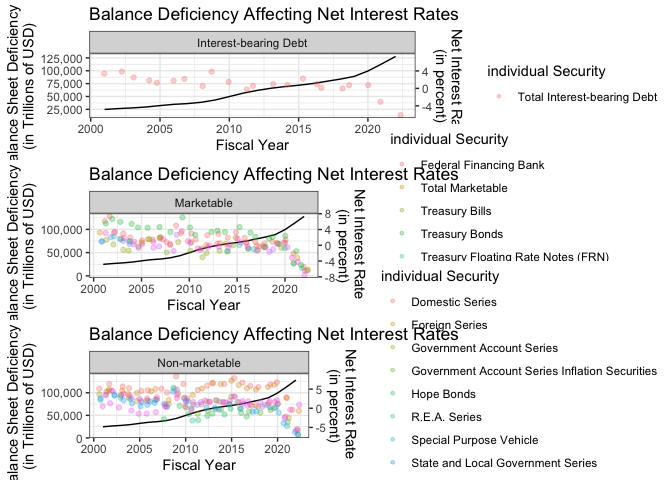
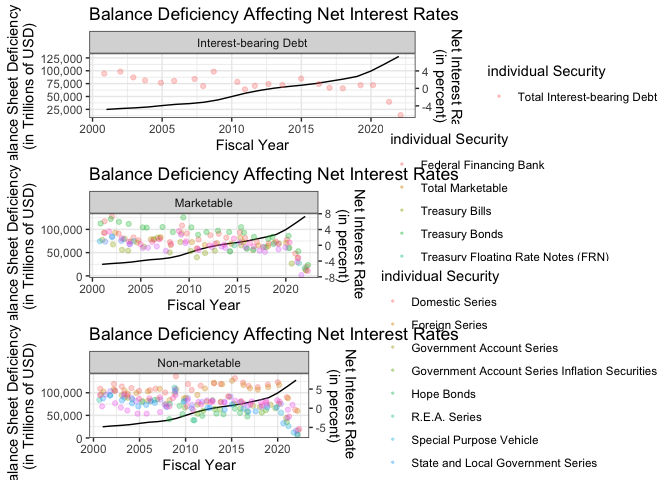
Materials needed for Project 2

diff --git a/README.md b/README.md
@@ -1363,17 +1363,17 @@ deficiencyAndRatesData %>%
     name = "Balance Sheet Deficiency \n(in Trillions of USD)",
     sec.axis = sec_axis(~ (. - a)/b, name="Net Interest Rate (in percent)")
   ) +
-  theme(text = element_text(size = 8),
-        axis.text.x = element_text(size = 3),
-        axis.title.x = element_text(size = 3),
-        axis.title.y.left = element_text(size = 3),
-        axis.title.y.right = element_text(size = 3),
-        axis.text.y.left = element_text(size = 3),
-        legend.key.size = element_text(size = 1),
-        legend.text = element_text(size = 1),
-        legend.title = element_text(size = 1),
-        axis.text.y.right = element_text(size = 3)) +
-  guides(color = guide_legend(override.aes = list(size = 1))) +
+  theme(text = element_text(size = 5),
+        axis.text.x = element_text(size = 2),
+        axis.title.x = element_text(size = 2),
+        axis.title.y.left = element_text(size = 2),
+        axis.title.y.right = element_text(size = 2),
+        axis.text.y.left = element_text(size = 2),
+        legend.key.size = element_text(size = 0.5),
+        legend.text = element_text(size = 0.5),
+        legend.title = element_text(size = 0.5),
+        axis.text.y.right = element_text(size = 2)) +
+  guides(color = guide_legend(override.aes = list(size = 0.5))) +
   labs(color = "Type of Security",
     title = "Balance Deficiency Affecting Net Interest Rates",
     x = "Fiscal Year") +
@@ -1430,17 +1430,17 @@ p1 <- ggplot(df$`Interest-bearing Debt`, aes(x = record_calendar_year)) +
   labs(color = "individual Security",
        title = "Balance Deficiency Affecting Net Interest Rates",
        x = "Fiscal Year") +
-  theme(text = element_text(size = 8),
-        axis.text.x = element_text(size = 3),
-        axis.title.x = element_text(size = 3),
-        axis.title.y.left = element_text(size = 3),
-        axis.title.y.right = element_text(size = 3),
-        axis.text.y.left = element_text(size = 3),
-        legend.key.size = element_text(size = 1),
-        legend.text = element_text(size = 1),
-        legend.title = element_text(size = 1),
-        axis.text.y.right = element_text(size = 3)) +
-  guides(color = guide_legend(override.aes = list(size = 1))) +
+  theme(text = element_text(size = 5),
+        axis.text.x = element_text(size = 2),
+        axis.title.x = element_text(size = 2),
+        axis.title.y.left = element_text(size = 2),
+        axis.title.y.right = element_text(size = 2),
+        axis.text.y.left = element_text(size = 2),
+        legend.key.size = element_text(size = 0.5),
+        legend.text = element_text(size = 0.5),
+        legend.title = element_text(size = 0.5),
+        axis.text.y.right = element_text(size = 2)) +
+  guides(color = guide_legend(override.aes = list(size = 0.5))) +
   facet_wrap(vars(security_type_desc)) +
   theme_bw()
 
@@ -1491,15 +1491,15 @@ p1 <- ggplot(df$`Interest-bearing Debt`, aes(x = named_month)) +
        title = "Net Interest Rate Varying by Month",
        x = "Fiscal Year",
        y = "Net Interest Rate \n(in percent)") +
-  theme(text = element_text(size = 8),
-        axis.text.x = element_text(size = 3),
-        axis.title.x = element_text(size = 3),
-        axis.title.y = element_text(size = 3),
-        legend.key.size = element_text(size = 1),
-        legend.text = element_text(size = 1),
-        legend.title = element_text(size = 1),
-        axis.text.y = element_text(size = 3)) +
-  guides(color = guide_legend(override.aes = list(size = 1))) +
+  theme(text = element_text(size = 5),
+        axis.text.x = element_text(size = 2),
+        axis.title.x = element_text(size = 2),
+        axis.title.y = element_text(size = 2),
+        legend.key.size = element_text(size = 0.5),
+        legend.text = element_text(size = 0.5),
+        legend.title = element_text(size = 0.5),
+        axis.text.y = element_text(size = 2)) +
+  guides(color = guide_legend(override.aes = list(size = 0.5))) +
   facet_wrap(vars(security_type_desc)) +
   theme_bw()
 
@@ -1532,15 +1532,15 @@ interestAndInflationRates %>%
   ggplot(aes(x = inflationRate, y = avg_interest_rate_amt, color = security_type_desc)) +
   geom_point(alpha = 0.5, show.legend = FALSE) +
   facet_wrap(vars(security_type_desc), nrow = 3) + 
-  theme(text = element_text(size = 8),
-        axis.text.x = element_text(size = 3),
-        axis.title.x = element_text(size = 3),
-        axis.title.y = element_text(size = 3),
-        legend.key.size = element_text(size = 1),
-        legend.text = element_text(size = 1),
-        legend.title = element_text(size = 1),
-        axis.text.y = element_text(size = 3)) +
-  guides(color = guide_legend(override.aes = list(size = 1))) +
+  theme(text = element_text(size = 5),
+        axis.text.x = element_text(size = 2),
+        axis.title.x = element_text(size = 2),
+        axis.title.y = element_text(size = 2),
+        legend.key.size = element_text(size = 0.5),
+        legend.text = element_text(size = 0.5),
+        legend.title = element_text(size = 0.5),
+        axis.text.y = element_text(size = 2)) +
+  guides(color = guide_legend(override.aes = list(size = 0.5))) +
   labs(title = 'How the Inflation Rates and Interest Rates were in the Year: {frame_time}', 
        x = 'Inflation Rate \n(in percent)', 
        y = 'Interest Rate Offerred \n(in percent)') +
